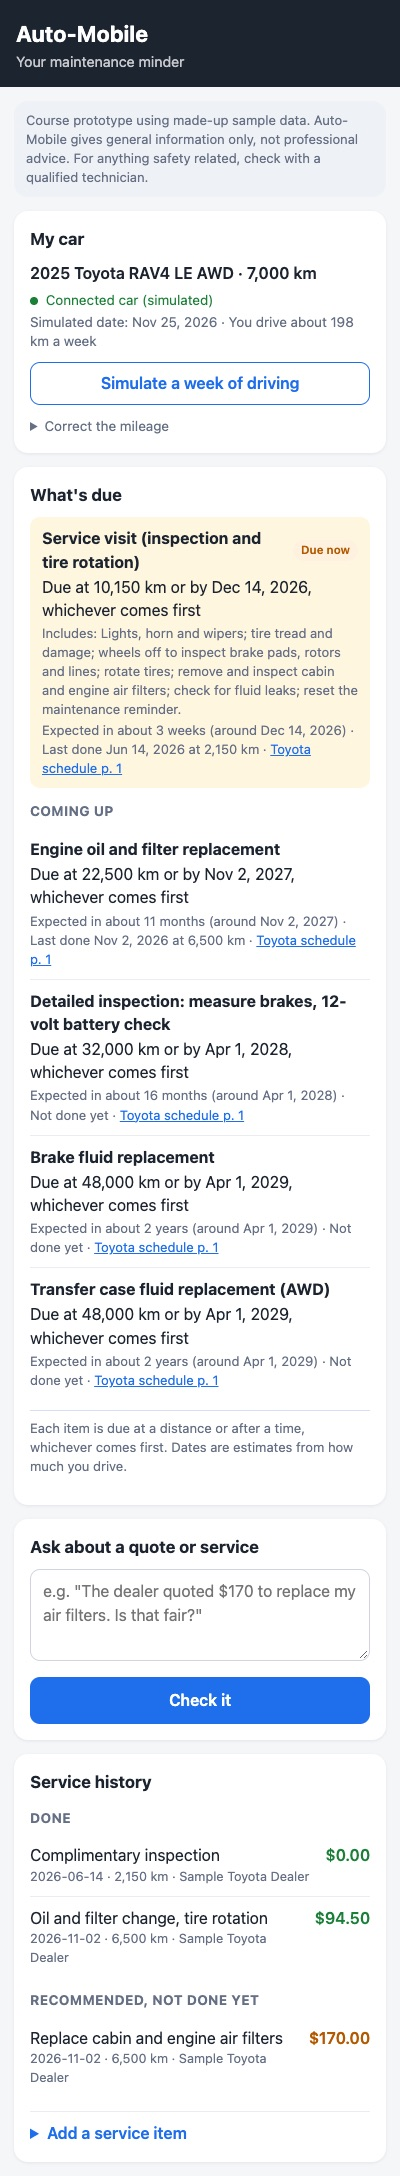
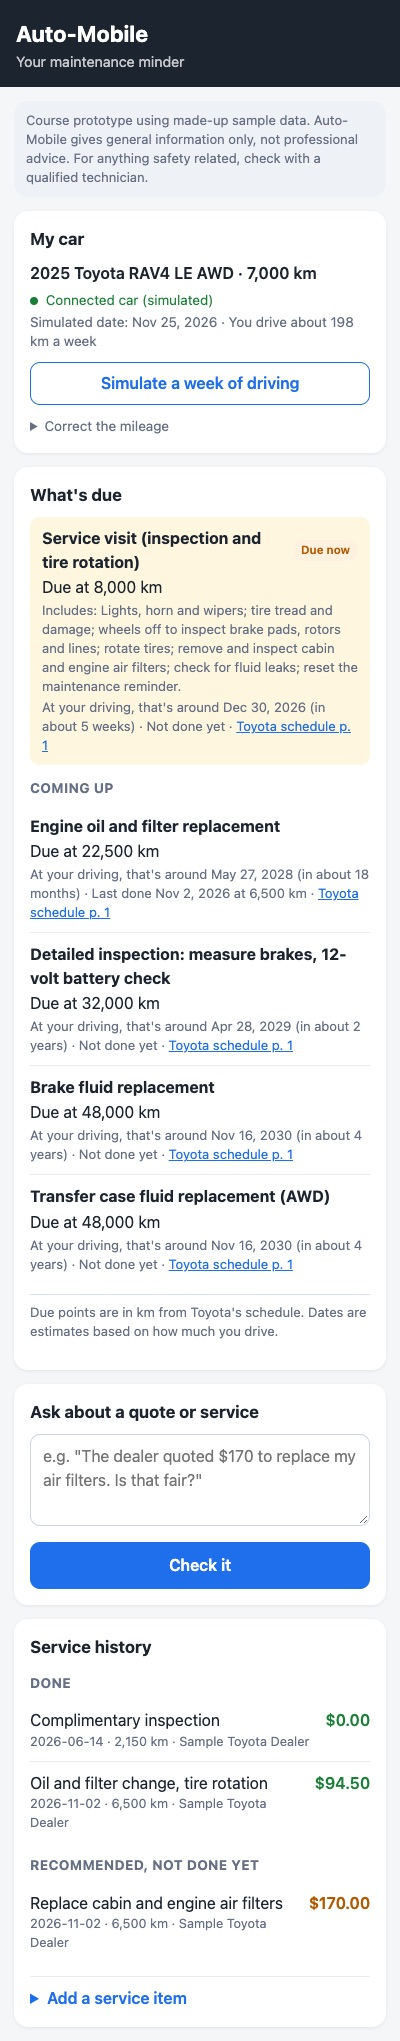
M5b: due points by km only, dates estimated from driving
- dropped the 6-month time limit for the prototype (team decision); PRD F6 notes the simplification
- wording: "Due at 8,000 km. At your driving, that's around Dec 30, 2026"
- sample history: the June complimentary inspection no longer counts as a scheduled visit,
  so the first service visit is due at Toyota's 8,000 km

Changed region(s): [[0.03, 0.0, 0.93, 0.9878], [0.78, 0.8334, 0.93, 0.8951], [0.78, 0.926, 0.93, 0.9569]]

diff --git a/public/app.js b/public/app.js
@@ -63,7 +63,7 @@ function renderGarage(garage) {
       : el("p", { className: "note", textContent: "Nothing is due right now." }));
     document.getElementById("due-next").replaceChildren(...next.map(dueItem));
     document.getElementById("due-source").textContent =
-      "Each item is due at a distance or after a time, whichever comes first. Dates are estimates from how much you drive.";
+      "Due points are in km from Toyota's schedule. Dates are estimates based on how much you drive.";
   }
 
   const select = document.getElementById("service-select");

diff --git a/minder.js b/minder.js
@@ -78,7 +78,7 @@ function describe(item) {
       ? `Overdue by ${fmtKm(-item.kmLeft)}`
       : `Overdue since ${fmtDate(item.dueDate)}`;
   } else if (item.expected && item.daysLeft != null) {
-    expected = `Expected ${inTime(item.daysLeft)} (around ${fmtDate(item.expected)})`;
+    expected = `At your driving, that's around ${fmtDate(item.expected)} (${inTime(item.daysLeft)})`;
   } else if (item.kmLeft != null) {
     expected = `${fmtKm(item.kmLeft)} from now`;
   } else {

diff --git a/PRD.md b/PRD.md
@@ -50,7 +50,7 @@ The app connects to the car, so it knows the mileage without the user typing it 
 - F3 user interface that allows information for vehicles to be entered to reference manuals and recommended service. Based on mileage input.
 - F4 sourced links to any information presented as facts
 - F5 logged history of vehicle to use as a reference source. New entries are picked from a list of services, so each one updates what is due.
-- F6 "What's due" panel on the main screen: due now, and next items with mileage and estimated date. An item is due by distance or by time, whichever comes first.
+- F6 "What's due" panel on the main screen: due now, and next items with mileage and estimated date. Items are due by distance (km) only; the date is an estimate from how much the owner drives. (Prototype simplification: Toyota's "every 6 months" time limit is not used, so low-mileage drivers may be told later than Toyota requires.)
 - F7 Simulated car connection: mileage readings come from sample data and the screen says "Connected car (simulated)". A "Simulate a week of driving" button moves the simulated date forward and adds kilometres, for the demo. The user can still correct the mileage by hand.
 - F8 Mileage prediction: the app estimates when each next item will be due from the average distance driven.
 - F9 The AI gets the app's context: current mileage, the due list, the schedule and the service history. It looks things up in the owner's manual first and searches the web only for prices, DIY guides and owner forum posts.

diff --git a/test-results.md b/test-results.md
@@ -10,6 +10,14 @@ The empty "Last run" and "Run by" columns in `acceptance-test.md` are for the te
 **Schedule:** Toyota Canada's official 2025 RAV4 LE AWD maintenance schedule (km), plus the "every 6 months or 8,000 km"
 rule from Toyota Canada's 2025 owner's supplement (p. 25). The demo car is now an LE AWD to match.
 
+**Update (same day): due points by km only.** The 6-month time limit was dropped for the prototype (team decision);
+dates are now only estimates from driving. The June "complimentary inspection" no longer counts as a scheduled visit,
+so the first service visit is due at Toyota's 8,000 km. Re-run after the change, all in Chrome at phone size:
+T2 "Due now: Service visit … Due at 8,000 km. At your driving, that's around Dec 30, 2026"; T9 shows the same on the
+main screen; T10 7,198 km on Dec 2 after a simulated week, kept after reload; T12 "Toyota rotates the tires at every
+service visit. Next service visit: due at 8,000 km"; T1, T3–T8 and T11 unchanged. All pass (basic answers); the
+schedule's second read still matches the PDF. The result rows below are from the run before this change.
+
 **Second read of the schedule:** a separate script re-read the Toyota PDF and compared all 11 schedule items at every
 service visit from 8,000 to 120,000 km, plus the cited pages. Result: all items match, no problems found.
 
